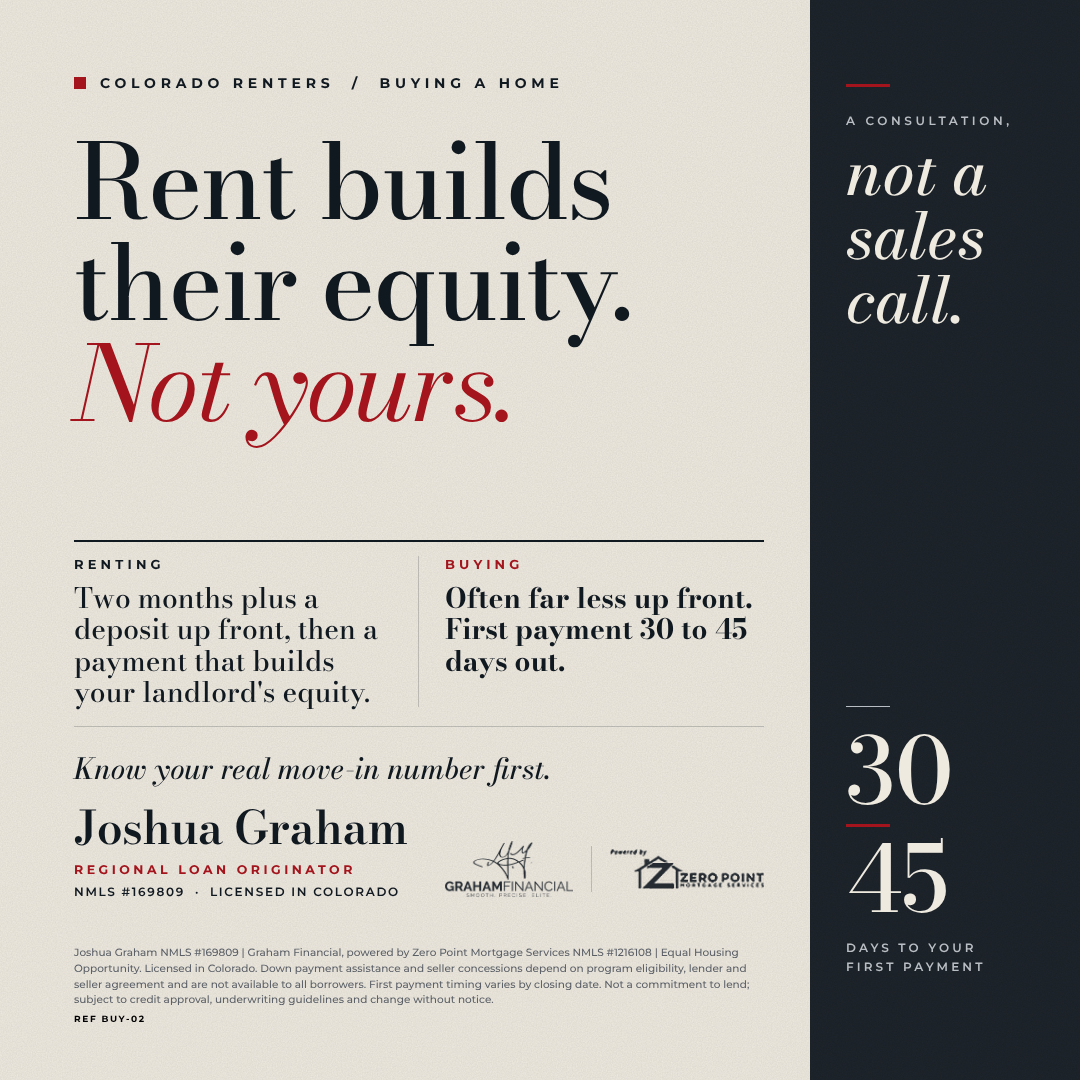
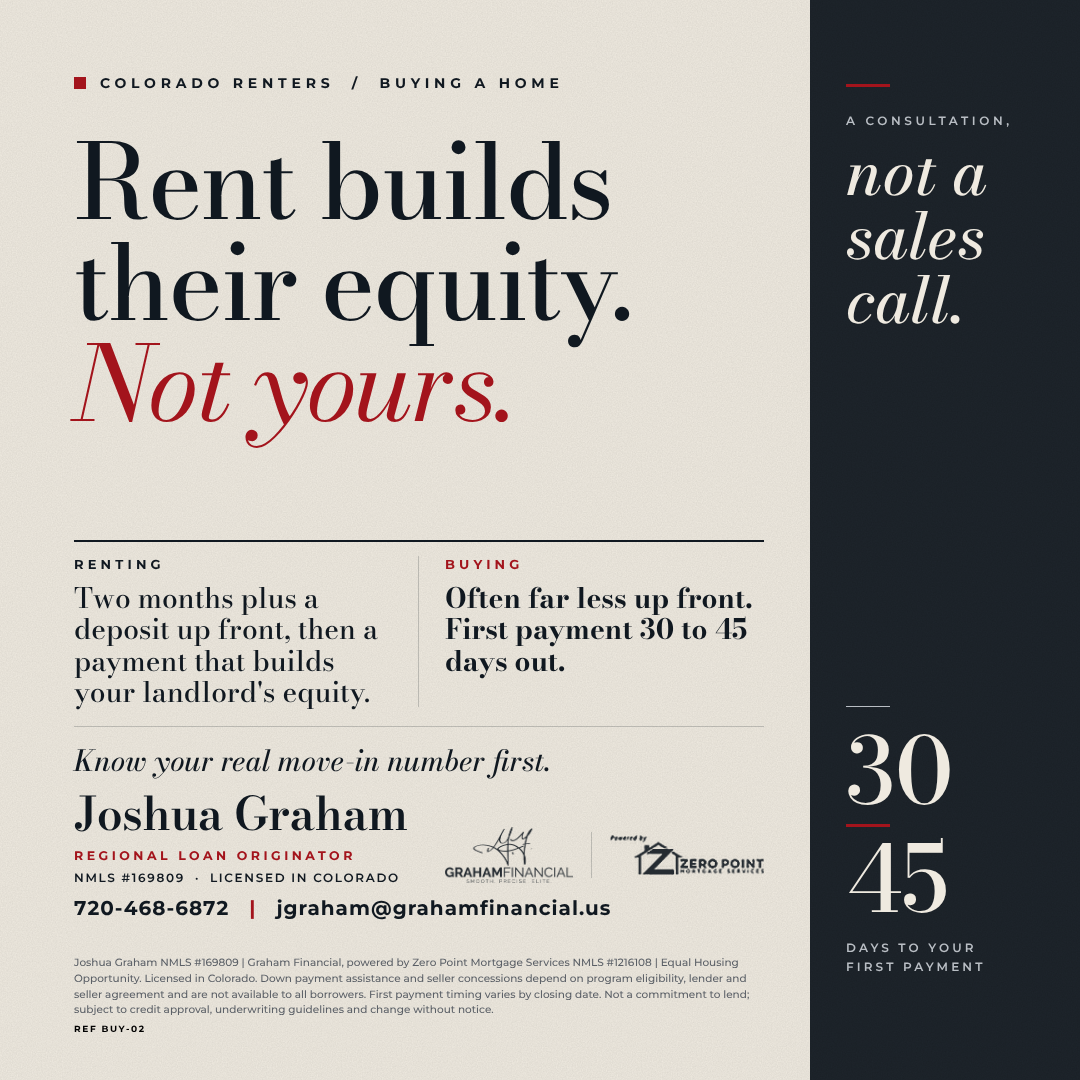
Phone and email on every flyer; remove AGT-04
Claude-Session: https://claude.ai/code/session_01BCcskEaN45pwtrM4t2VKHx

Changed region(s): [[0.0611, 0.7028, 0.7028, 0.9472], [0.55, 0.7639, 0.7028, 0.825]]

diff --git a/src/smart-money/data.js b/src/smart-money/data.js
@@ -1034,28 +1034,6 @@ I'd rather show you your real numbers than guess. A few minutes with me. A consu
       cta: "Take a few minutes with me. A consultation, not a sales call. Link in the post.",
     },
   },
-  {
-    ref: "AGT-04", bank: "agents", name: "Agents: Clients Forget the Rate, Never the Closing", lender: "N/A",
-    audience: "agent", license: "none", flyer: "/smart-money/flyers/AGT-04.png", footer: "intro",
-    cta: `A few minutes with me on making closing day easy. A consultation, not a sales call 👉 ${BRAND.booking}`,
-    painPoints: [], magnet: "book-5", skool: "Agents",
-    highlights: ["The rate fades within a month", "The closing decides whether they refer you", "Consultation, not a sales call"],
-    notes: "Elite look, panel on the left, peacock palette.",
-    short: `Clients forget the rate. They never forget the closing.
-
-The rate is a number that fades within a month. The closing is the day they decide whether to refer you.
-
-A few minutes with me on making that day easy. A consultation, not a sales call.`,
-    long: `Your client won't remember their rate a month from now. They will remember how the closing felt, and that's the day they decide whether to refer you.
-
-My job is to make that day easy: numbers settled early, steady updates, no surprises. If you'd like to see how, take a few minutes with me. A consultation, not a sales call.`,
-    video: {
-      title: "Clients forget the rate. Never the closing.",
-      hook: "Your client won't remember their rate. They'll remember the closing.",
-      points: ["Why the rate fades and the closing sticks", "What an easy closing day takes", "What the consultation covers"],
-      cta: "Take a few minutes with me. A consultation, not a sales call. Link in the post.",
-    },
-  },
 ];
 
 // ---- Schedule: 7 days × 2 slots (8:30 AM / 12:30 PM ET). 8 investor / 6 consumer per week.

diff --git a/dist/index.html b/dist/index.html
@@ -7,7 +7,7 @@
     <meta name="theme-color" content="#1e6e4a" />
     <link rel="manifest" href="/manifest.json" />
     <title>Get Unlocked Producer</title>
-    <script type="module" crossorigin src="/assets/main-e1bc386c.js"></script>
+    <script type="module" crossorigin src="/assets/main-7406a333.js"></script>
     <link rel="modulepreload" crossorigin href="/assets/supabase-f19bb01a.js">
   </head>
   <body>

diff --git a/tools/flyers/gen_elite.py b/tools/flyers/gen_elite.py
@@ -71,11 +71,6 @@ CARDS = {
         left=("THE LEASE", "A place you pay for and never own."),
         right=("THE MORTGAGE", "A payment that builds your equity."),
         cta="See what your move would really take.", panel_bottom=STAT_30_45, foot=FOOT_CONSUMER),
-    "AGT-04": dict(palette="peacock", side="left", kicker="REAL ESTATE AGENTS &nbsp;/&nbsp; REFERRAL PARTNERS",
-        h1=["Clients forget", "the rate."], h1_accent="Never the closing.", h1_px=88,
-        left=("THE RATE", "A number that fades within a month."),
-        right=("THE CLOSING", "The day they decide whether to refer you."),
-        cta="A few minutes on making that day easy.", panel_bottom=TAGLINE, foot=FOOT_AGENT),
 }
 
 def grain_url():
@@ -130,13 +125,14 @@ def page(ref, c):
 <div style="padding-right:26px;border-right:1px solid {p["ink"]}33"><p style="font:700 13px M;letter-spacing:.32em;color:{p["ink"]}">{c["left"][0]}</p><p style="margin-top:10px;font:500 {lpx}px/1.12 B;color:{p["ink"]}">{c["left"][1]}</p></div>
 <div style="padding-left:26px"><p style="font:700 13px M;letter-spacing:.32em;color:{p["accent"]}">{c["right"][0]}</p><p style="margin-top:10px;font:700 {lpx}px/1.12 B;color:{p["ink"]}">{c["right"][1]}</p></div></div>
 <div style="position:absolute;left:74px;width:690px;top:726px;border-top:1px solid {p["ink"]}33"></div>
-<p style="position:absolute;left:74px;top:746px;font:500 italic 29px B;color:{p["ink"]};white-space:nowrap">{c["cta"]}</p>
-<div style="position:absolute;left:74px;width:690px;top:804px;display:flex;align-items:flex-end;justify-content:space-between">
+<p style="position:absolute;left:74px;top:738px;font:500 italic 29px B;color:{p["ink"]};white-space:nowrap">{c["cta"]}</p>
+<div style="position:absolute;left:74px;width:690px;top:790px;display:flex;align-items:flex-end;justify-content:space-between">
 <div><p style="font:600 46px/1 B;color:{p["ink"]};letter-spacing:-0.01em;white-space:nowrap">Joshua Graham</p>
 <p style="margin-top:12px;font:700 12.5px M;letter-spacing:.28em;color:{p["accent"]};white-space:nowrap">REGIONAL LOAN ORIGINATOR</p>
 <p style="margin-top:7px;font:600 12px M;letter-spacing:.14em;color:{p["ink"]};white-space:nowrap">NMLS #169809 &nbsp;&middot;&nbsp; LICENSED IN COLORADO</p></div>
 <div style="display:flex;align-items:center;gap:18px;padding-bottom:2px;flex:none"><img src="file://{gf}" style="height:56px;display:block;opacity:.9"><div style="width:1px;height:46px;background:{p["ink"]}33"></div><img src="file://{zp}" style="height:40px;display:block;opacity:.9"></div></div>
-<p style="position:absolute;left:74px;width:690px;bottom:56px;font:500 10.5px/1.5 M;color:{p["muted"]}">{c["foot"]}<span style="display:block;margin-top:5px;font:700 9px M;letter-spacing:.18em;color:#000">REF {ref}</span></p>
+<p style="position:absolute;left:74px;top:896px;font:700 20px M;letter-spacing:.05em;color:{p["ink"]};white-space:nowrap">720-468-6872 <span style="color:{p["accent"]}">&nbsp;&nbsp;|&nbsp;&nbsp;</span> jgraham@grahamfinancial.us</p>
+<p style="position:absolute;left:74px;width:690px;bottom:46px;font:500 10.5px/1.5 M;color:{p["muted"]}">{c["foot"]}<span style="display:block;margin-top:5px;font:700 9px M;letter-spacing:.18em;color:#000">REF {ref}</span></p>
 </div></body></html>'''
     if c.get("side") == "left":
         html_out = html_out.replace("right:0;", "left:0;").replace("left:74px", "left:344px")
